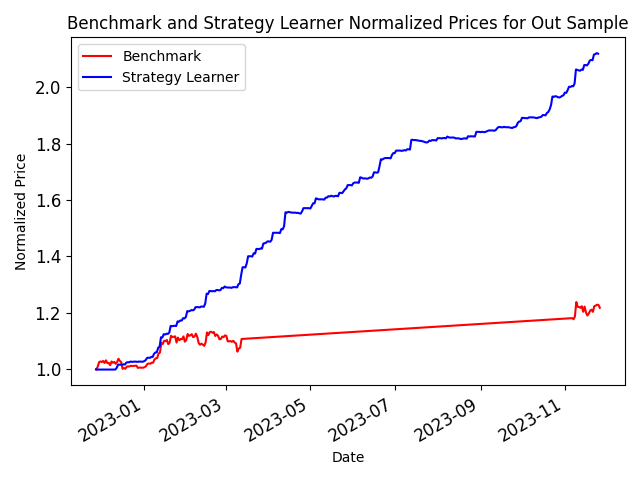
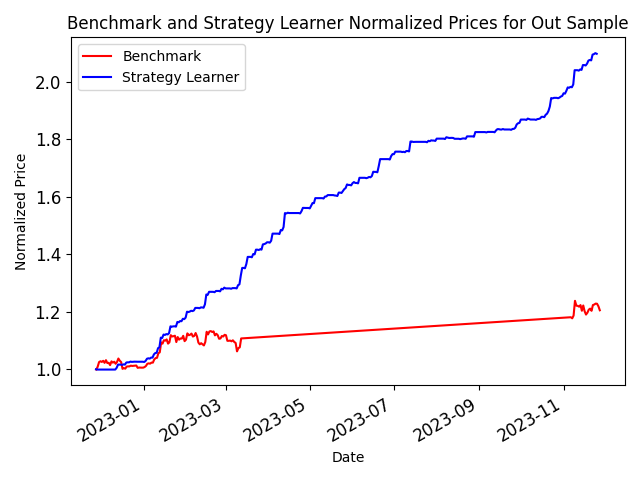
Impact = 0.4%

diff --git a/experiment1.py b/experiment1.py
@@ -55,14 +55,14 @@ def get_results(symbol, sd, ed, sv, commission, impact, num_shares, crypto):
 def run_experiment():
     start_val = 100000
     commission = 0
-    impact = 0.0025
+    impact = 0.003
     symbol = "ETH/USD"
     crypto = True
     num_shares = 25
     sd_in = dt.datetime(2021, 11, 27)
     ed_in = dt.datetime(2022, 11, 27)
     sd_out = dt.datetime(2022, 11, 27)
-    ed_out = dt.datetime(2023, 11, 27)
+    ed_out = dt.datetime(2023, 11, 28)
     in_sample = get_results(symbol, sd_in, ed_in, start_val, commission, impact, num_shares, crypto)
     sl_result = strategy_learner(symbol, sd_in, ed_in, sd_out, ed_out, start_val, commission, impact, num_shares, crypto)
     sl_result_in = sl_result[0]

diff --git a/experiment2.py b/experiment2.py
@@ -52,7 +52,7 @@ async def run_experiment(bar):
     print("Bar", bar)
     price = bar.close
     commission = 0
-    impact = 0.0025
+    impact = 0.004
     sd_in = dt.datetime.utcnow() - dt.timedelta(days = 365)
     ed_in = dt.datetime.utcnow()
     """sd_in = dt.date.today() - dt.timedelta(days = 365)
